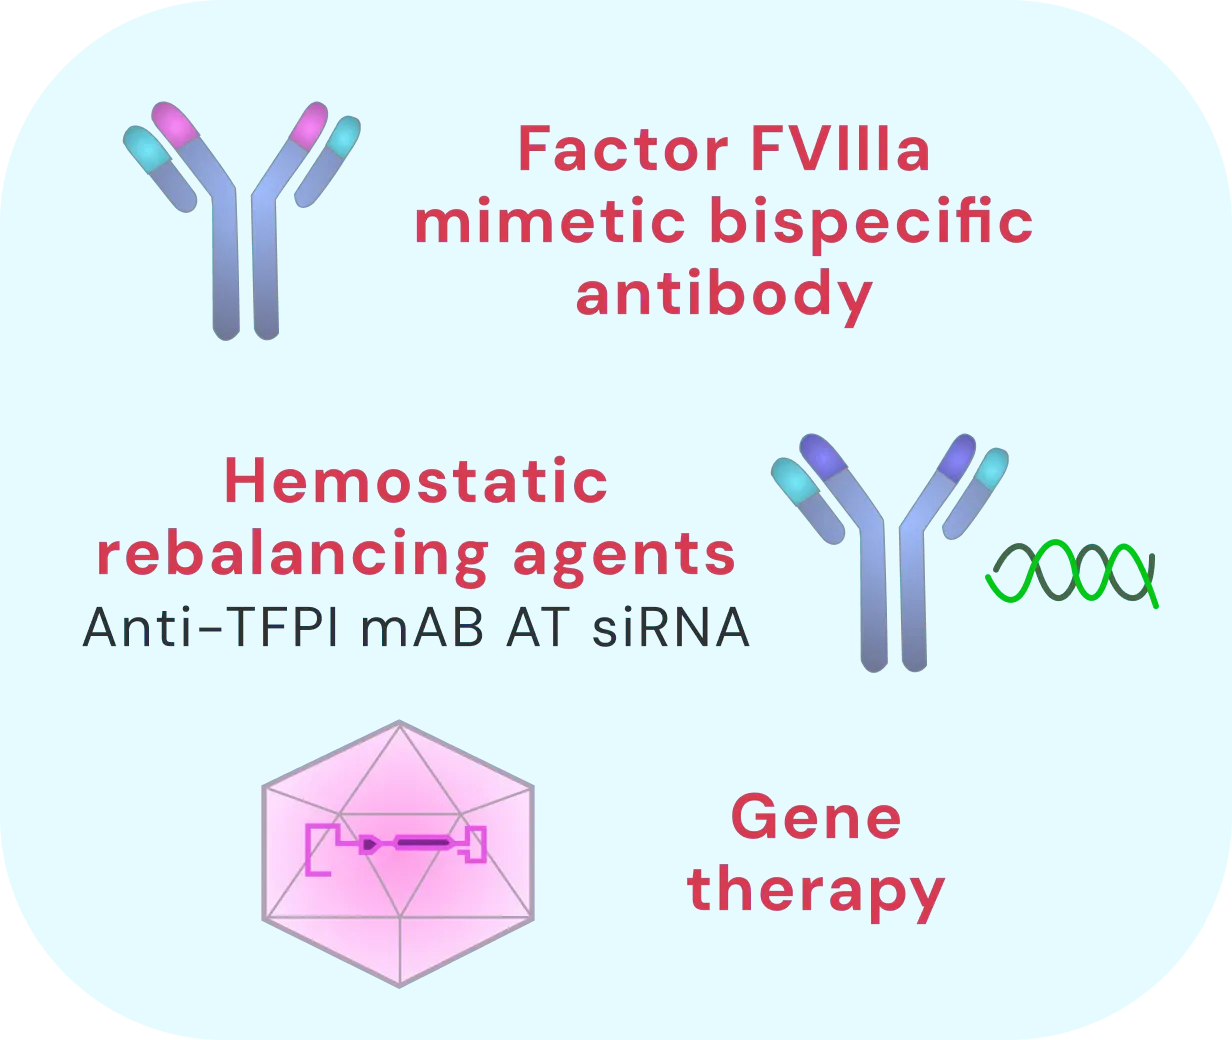
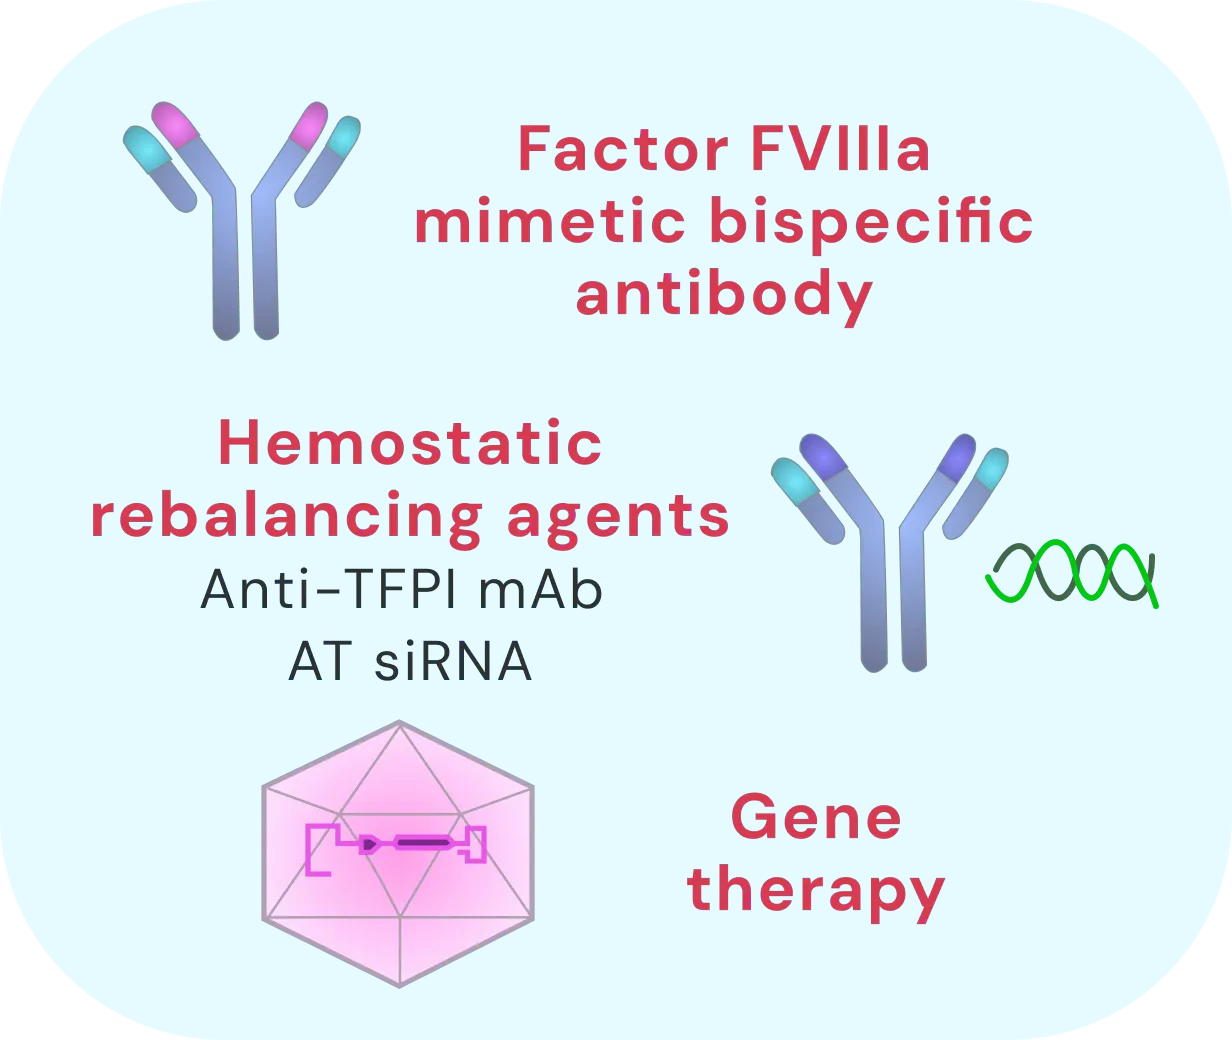
perf: strip the baked-in card from the refreshed class art, re-encode both
The client's 2026-09-14 drop (both files fix the acronym to "mAb") was
committed as exported, bypassing 7940545's budget for the third time.

benefits_challenges came back on its own 1232x1040 canvas, but as a
high-quality encode carrying an ICC chunk — 87,616 → 97,078 bytes for a
two-line relayout. Re-run through cwebp -q 80 -sharp_yuv with the ICC
dropped, since it is a plain sRGB profile: 73,476 bytes at 45.30 dB PSNR
against the delivered file.

hemostatic_rebalancing_agents arrived at 912x772 with the opaque rounded
card baked in again — 99.7% opaque, and its ALPH chunk gave it away at
1.7 KB where a stripped asset's runs 15–30 KB. On the box's slate ground
that paints as a white card with visible corners. Keyed off the two card
tones, with "was not fully opaque in the export" standing in for "is card
furniture": the rounded rim and the drop shadow are the only soft alpha in
the file and the drawing never comes within 24 px of the border, so the
shadow's grey never has to be told from the artwork's.

Cropped to 850x718 rather than to the flat ~8 px margin the other class
assets wear. This is the one landscape asset: 8 px (837x696) pushed its
ratio past the box's constant 224/184 and drew the title 3.5 px off the
edge, while matching the outgoing file's content/canvas ratios reproduces
its ink geometry exactly — 210.4 x 174.3 drawn, 6.8 px of side air — so
the row does not shift under the swap. REBALANCING moves with the file.
47,800 → 43,378 bytes.
[…]

Changed region(s): [[0.0617, 0.4, 0.6169, 0.6769], [0.0617, 0.5846, 0.1542, 0.6154]]

diff --git a/src/routes/wizard/Scenario.tsx b/src/routes/wizard/Scenario.tsx
@@ -24,7 +24,7 @@ interface BoxArt {
 const FVIII_CONCENTRATES: BoxArt = { src: factorConcentratesUrl, width: 584, height: 652 };
 const FIX_CONCENTRATES: BoxArt = { src: factorFixConcentratesUrl, width: 584, height: 652 };
 const MIMETIC: BoxArt = { src: mimeticUrl, width: 624, height: 708 };
-const REBALANCING: BoxArt = { src: rebalancingUrl, width: 848, height: 716 };
+const REBALANCING: BoxArt = { src: rebalancingUrl, width: 850, height: 718 };
 const GENE: BoxArt = { src: geneTherapyUrl, width: 403, height: 480 };
 
 /**
